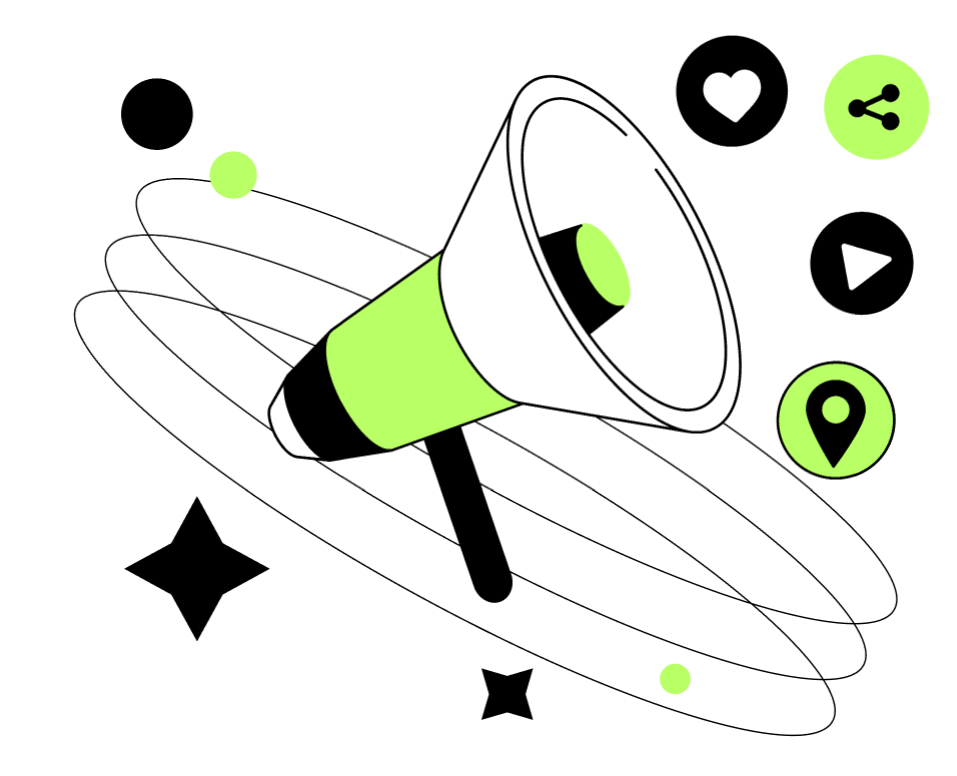
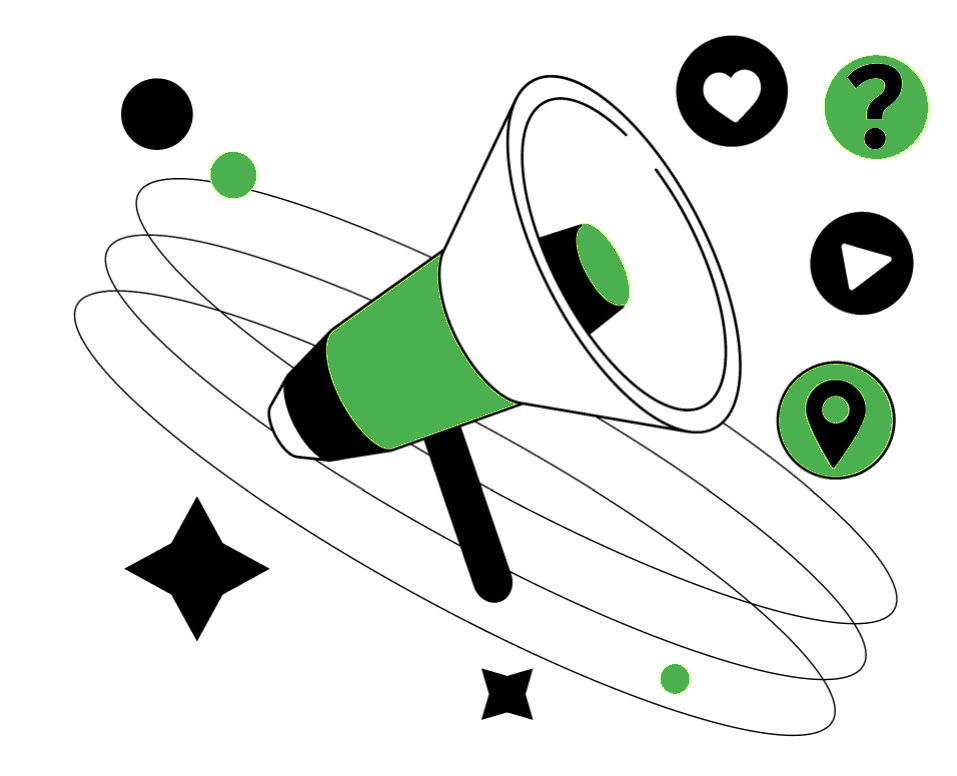
page accueil (revoir l'image peut-être)

diff --git a/quiz/src/app/accueil/accueil.component.css b/quiz/src/app/accueil/accueil.component.css
@@ -1,0 +1,74 @@
+.page_container {
+    display: flex;
+    justify-content: space-between; 
+    padding: 8vh; 
+}
+
+.div_gauche {
+    flex: 1; 
+    margin-right : 8vh; 
+}
+
+.div_droite {
+    flex: 1; 
+    display: flex;
+    justify-content: center; 
+    align-items: center; 
+}
+
+.div_gauche h2 {
+    margin-bottom: 2vw; 
+}
+
+form {
+    margin-top:3vw; 
+}
+
+img {
+    max-width: 100%; 
+    height: auto; 
+}
+
+input[type=text]{
+    border: none;
+    border-bottom: 2px solid #000000b6;
+    padding: 15px 10px;
+    margin-bottom: 18px;
+    margin-right: 3vw;
+    height:3vh;
+    width:18vw;
+    transition: 0.5s;
+    font-size: 1.2vw;
+    border-radius: 20px;
+    background-color: var(--bg-button);
+  }
+  
+  input[type=submit]{
+    padding: 2vh 4vw;
+    background-color: var(--txt);
+    color: var(--box);
+    border: none;
+    border-radius: 20px;
+    cursor: pointer;
+    font-size: 1.2vw;
+    transition: background-color 0.3s, transform 0.3s;
+  }
+  input:hover {
+    transform: scale(1.02);
+  }
+
+  input[type=submit]:active {
+    background-color: var(--txt);
+    transform: scale(0.95);
+  }
+  
+  input:focus{
+    font-size: 1.5vw;
+    outline:none;
+    border-radius: 20px;
+    background-color:var(--bg-button);
+  }
+
+p{
+    text-align : justify;
+}

diff --git a/quiz/src/app/accueil/accueil.component.html b/quiz/src/app/accueil/accueil.component.html
@@ -1,1 +1,16 @@
-<p>accueil works!</p>
+<div class = "page_container">
+    <div class = "div_gauche">
+        <h2>Bienvenue sur *******, le site ultime de quiz multijoueur en ligne !</h2>
+            <p>Testez vos connaissances, défiez vos amis et grimpez au sommet des classements.
+            Rejoignez notre communauté de joueurs du monde entier et découvrez qui est le véritable maître du quiz.
+            <br>Prêt à relever le défi ?</p>
+        <form (submit) = goToLobby()>
+            <input type="text" placeholder="Pseudo" required maxlength="20" autocomplete="off" name = "pseudo"/>
+            <input type="submit" id="submit" value="Rejoindre" />
+          </form>
+    </div>
+    <div class = "div_droite">
+        <img src = "img accueil (1).png"/>
+    </div>
+</div>
+

diff --git a/quiz/src/app/accueil/accueil.component.ts b/quiz/src/app/accueil/accueil.component.ts
@@ -1,4 +1,5 @@
 import { Component } from '@angular/core';
+import { Router } from '@angular/router';
 
 @Component({
   selector: 'app-accueil',
@@ -7,6 +8,12 @@ import { Component } from '@angular/core';
   templateUrl: './accueil.component.html',
   styleUrl: './accueil.component.css'
 })
-export class AccueilComponent {
 
+export class AccueilComponent {
+  constructor(private router: Router) {}
+
+  goToLobby(): void {
+    this.router.navigate(['/lobby']);
+       
+  }
 }

diff --git a/quiz/src/app/connexion/connexion.component.css b/quiz/src/app/connexion/connexion.component.css
@@ -132,7 +132,7 @@ input:focus{
   font-size: 1.5vw;
   outline:none;
   border-radius: 20px;
-  background-color: rgba(111, 111, 111, 0.152);
+  background-color: var(--bg-button);
 }
 
 a{

diff --git a/quiz/src/styles.css b/quiz/src/styles.css
@@ -7,6 +7,7 @@
     --txt:#4caf50;
     --box:#2f363e;
     --bg :#d2d2d2;
+    --bg-button : rgba(111, 111, 111, 0.152);
 }
 
 html, body {
